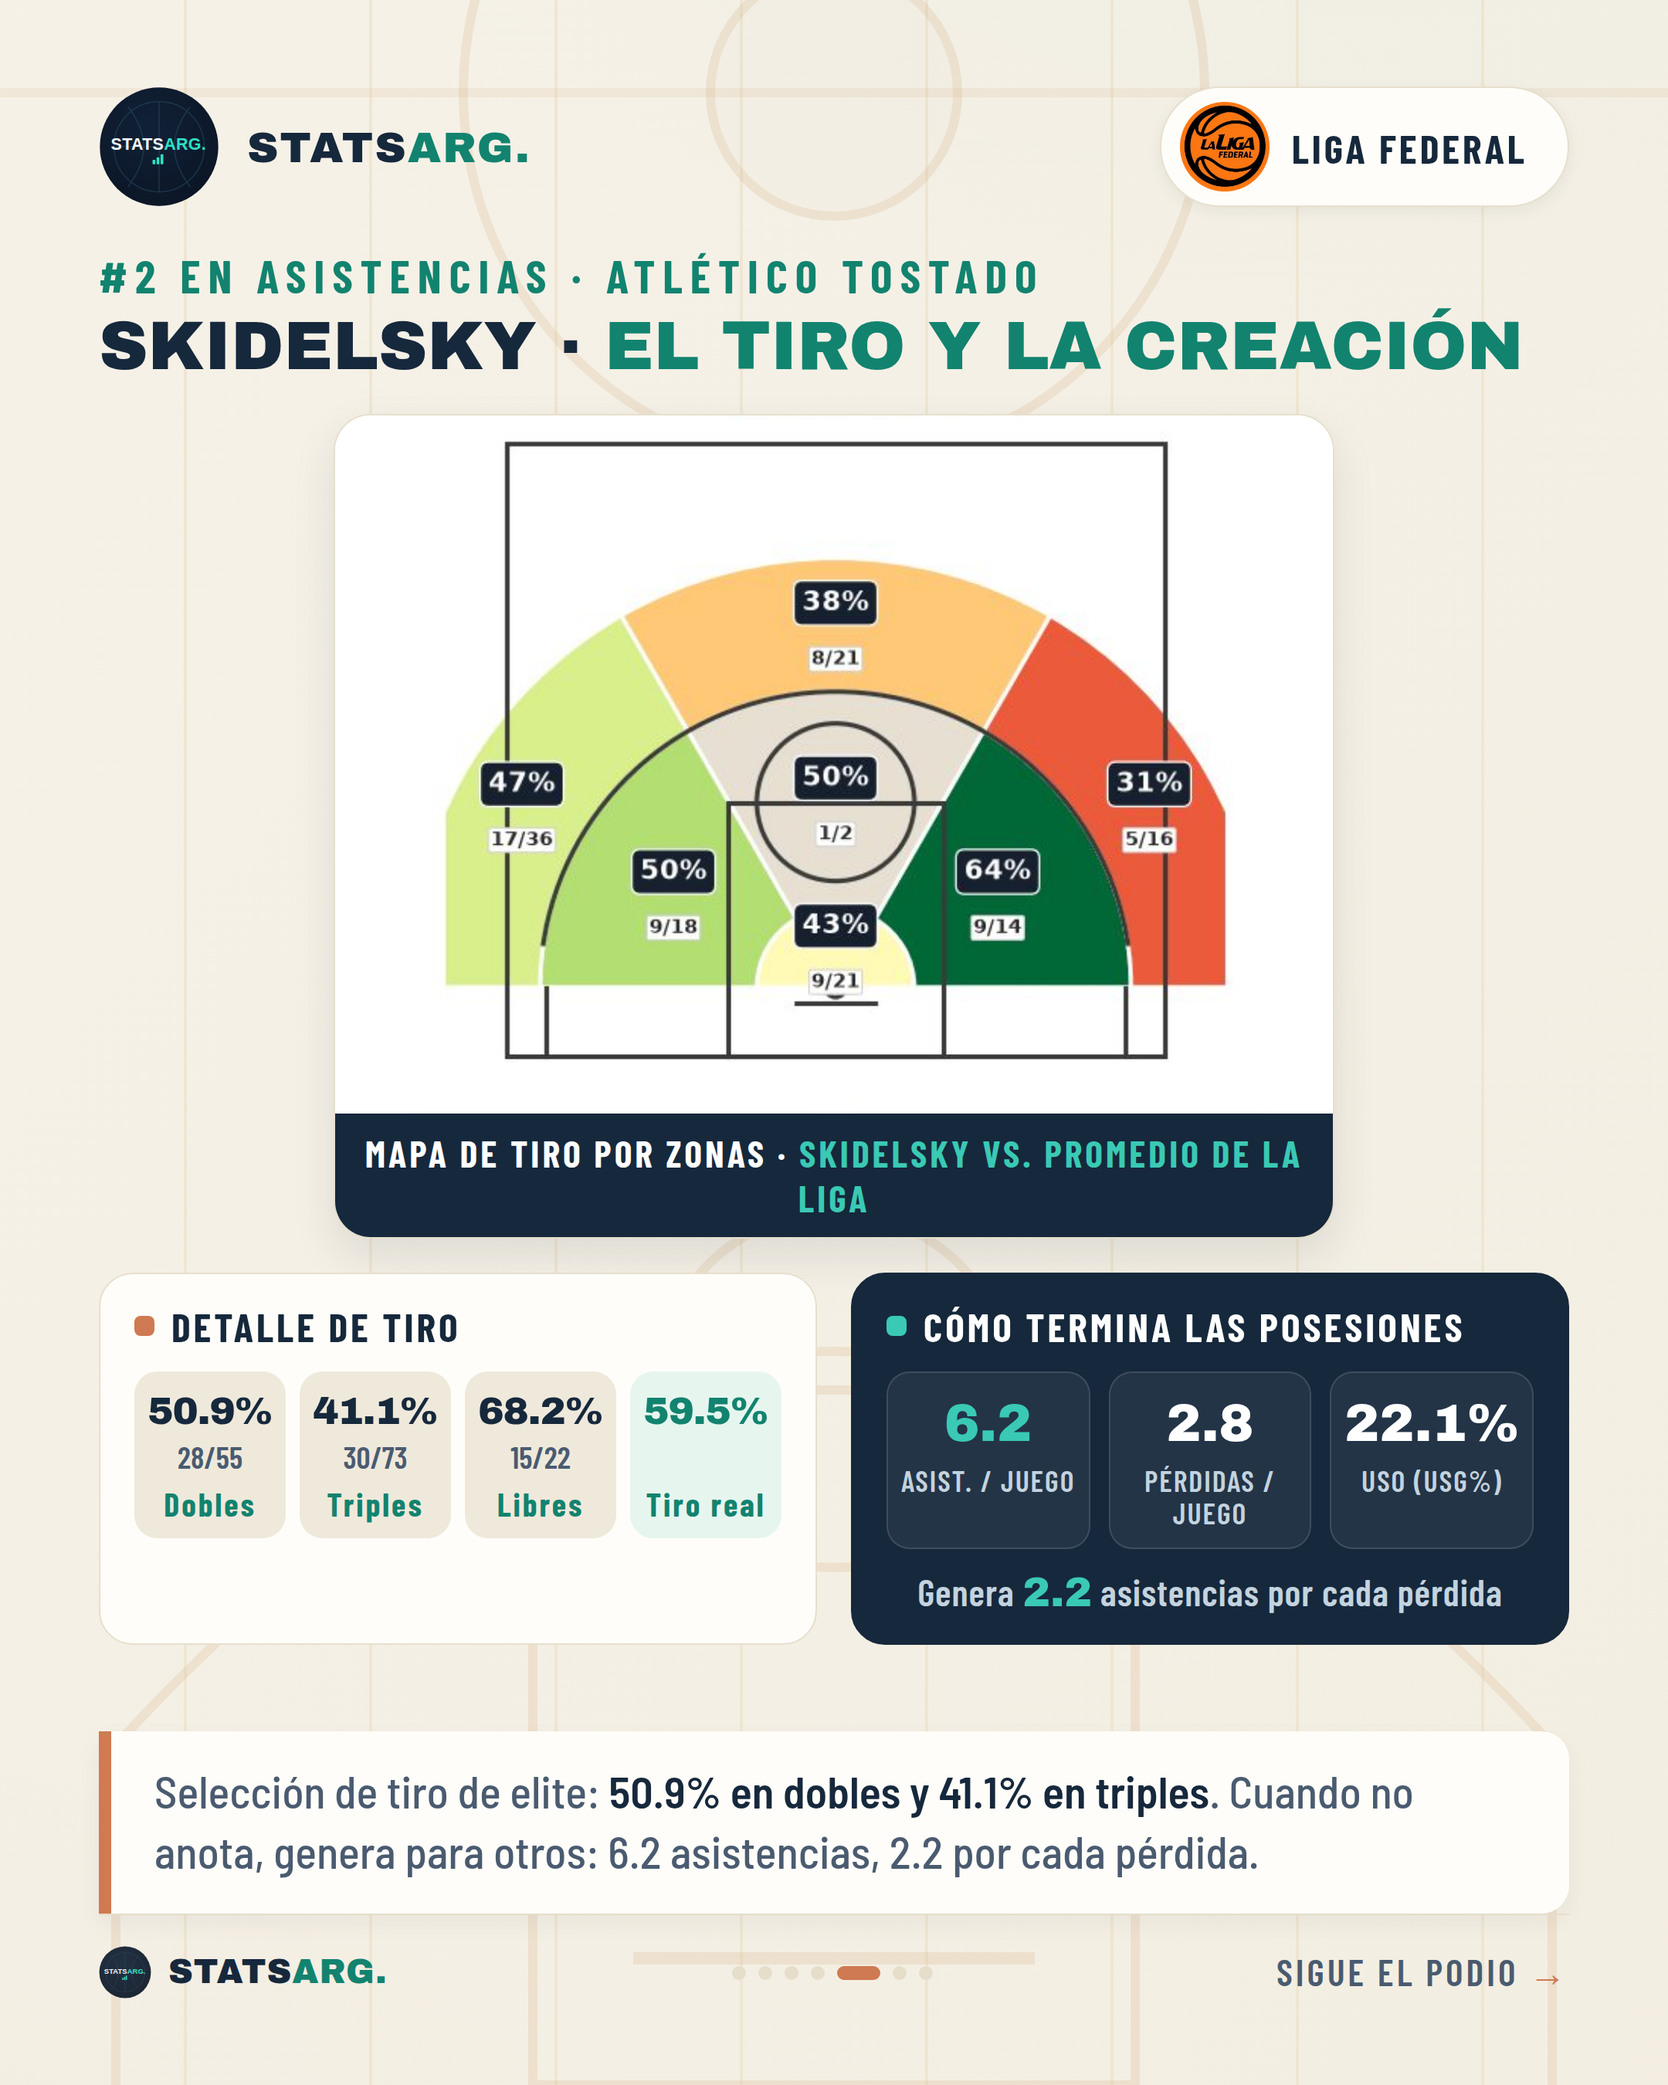
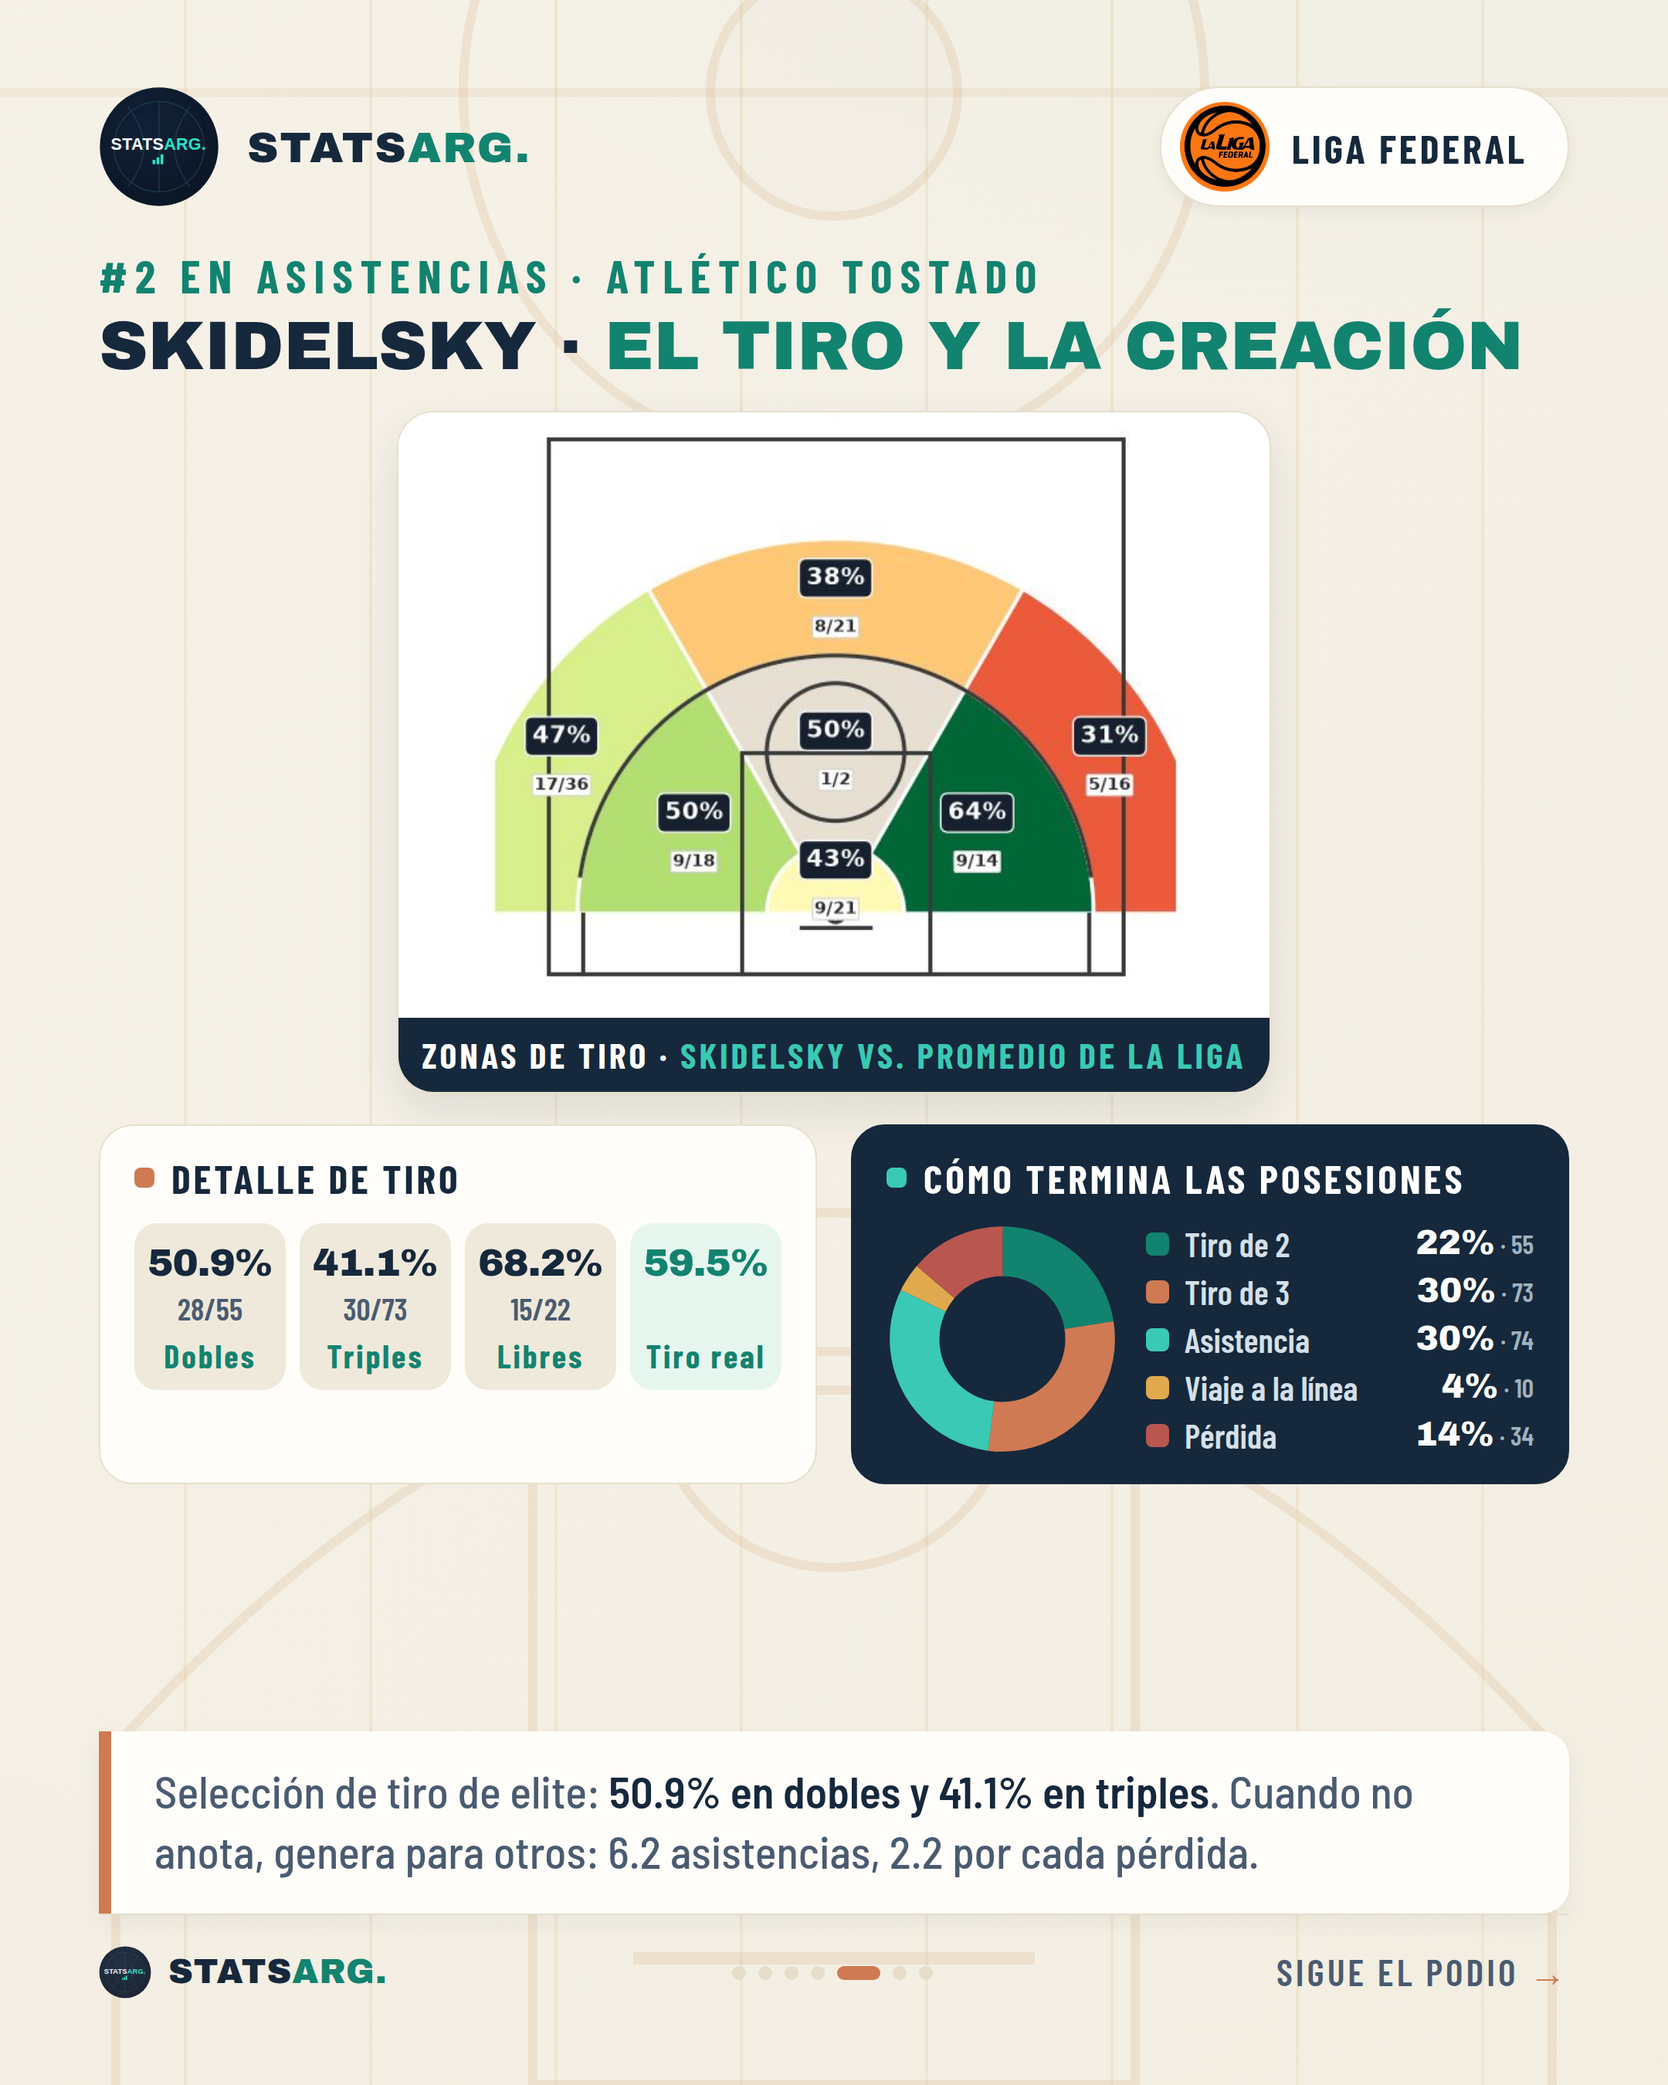
Carrusel asistidores: métricas avanzadas y gráfico de torta
- Portada: saca la nota de mínimo 10 juegos.
- Perfil: reemplaza el PER por un panel de métricas avanzadas (Four Factors
  + eficiencia): TS%, eFG%, USG%, TOV%, FT Rate y +/- por juego (verídico y
  comparable entre jugadores, en lugar del acumulado).
- Placa de tiro: reemplaza el bloque de posesiones por un gráfico de torta
  con el desglose de cómo termina (tiro de 2, tiro de 3, asistencia, viaje a
  la línea, pérdida) calculado desde el dataset.

Claude-Session: https://claude.ai/code/session_01GUo5CWbMptDgps5CVvVAgo

Changed region(s): [[0.062, 0.1867, 0.9616, 0.8089], [0.1551, 0.7467, 0.1861, 0.7778]]

diff --git a/social/asistidores-liga-federal/slides.html b/social/asistidores-liga-federal/slides.html
@@ -106,7 +106,7 @@ body{background:#555;font-family:'Barlow Semi',sans-serif;color:var(--navy)}
 .rankband .lbl .sub img{width:44px;height:44px;object-fit:contain}
 .rankband .lbl .sub .dot{width:8px;height:8px;border-radius:50%;background:var(--orange)}
 
-.profile-main{display:flex;gap:44px;margin-top:46px;align-items:stretch}
+.profile-main{display:flex;gap:44px;margin-top:46px;align-items:stretch;min-width:0}
 .photo-wrap{width:400px;flex:none;position:relative}
 .photo-wrap .ph{width:400px;height:476px;object-fit:cover;object-position:top;border-radius:28px;
   border:1px solid var(--line);background:#e8e2d2;box-shadow:0 12px 28px rgba(22,40,60,.12);display:block}
@@ -115,18 +115,33 @@ body{background:#555;font-family:'Barlow Semi',sans-serif;color:var(--navy)}
   font-family:'Barlow Condensed';font-weight:700;font-size:30px;letter-spacing:3px;text-transform:uppercase}
 .photo-wrap .tag span{color:var(--cyan)}
 
-.stats-col{flex:1;display:flex;flex-direction:column;gap:24px}
-.hero-tile{background:var(--navy);border-radius:26px;padding:26px 34px;display:flex;align-items:center;
+.stats-col{flex:1;min-width:0;display:flex;flex-direction:column;gap:20px}
+.hero-tile{background:var(--navy);border-radius:26px;padding:24px 34px;display:flex;align-items:center;
   justify-content:space-between;box-shadow:0 12px 26px rgba(22,40,60,.16)}
 .hero-tile .lbl{font-family:'Barlow Condensed';font-weight:600;font-size:32px;letter-spacing:4px;
   color:#c3d3df;text-transform:uppercase;line-height:1.15}
-.hero-tile .val{font-family:'Archivo Black';font-size:96px;color:var(--cyan);line-height:1}
-.grid{display:grid;grid-template-columns:repeat(3,1fr);gap:18px}
-.tile{background:var(--card);border:1px solid var(--line);border-radius:20px;padding:18px 10px 14px;text-align:center}
-.tile .v{font-family:'Archivo Black';font-size:44px;line-height:1}
-.tile .k{font-family:'Barlow Condensed';font-weight:600;font-size:23px;letter-spacing:2px;color:var(--navy-soft);
+.hero-tile .val{font-family:'Archivo Black';font-size:88px;color:var(--cyan);line-height:1}
+.grid{display:grid;grid-template-columns:repeat(4,1fr);gap:16px}
+.tile{background:var(--card);border:1px solid var(--line);border-radius:20px;padding:18px 8px 14px;text-align:center}
+.tile .v{font-family:'Archivo Black';font-size:42px;line-height:1}
+.tile .k{font-family:'Barlow Condensed';font-weight:600;font-size:22px;letter-spacing:1.5px;color:var(--navy-soft);
   text-transform:uppercase;margin-top:8px}
 .tile.hl .v{color:var(--teal-ink)}
+
+/* métricas avanzadas */
+.advpanel{background:var(--card);border:1px solid var(--line);border-radius:20px;padding:16px 18px 14px}
+.advpanel .at{font-family:'Barlow Condensed';font-weight:700;font-size:20px;letter-spacing:1.5px;
+  text-transform:uppercase;color:var(--navy-soft);margin-bottom:12px}
+.advrow{display:grid;grid-template-columns:repeat(3,1fr);row-gap:16px}
+.advrow .m{min-width:0;text-align:center;position:relative;padding:2px 4px}
+.advrow .m:not(:nth-child(3n))::after{content:'';position:absolute;right:0;top:2px;bottom:2px;width:1px;background:var(--line)}
+.advrow .m:nth-child(-n+3){padding-bottom:14px;border-bottom:1px solid var(--line)}
+.advrow .m:nth-child(n+4){padding-top:2px}
+.advrow .m .v{font-family:'Archivo Black';font-size:34px;line-height:1;letter-spacing:-.5px}
+.advrow .m .v.neg{color:#b8564f}
+.advrow .m .v.pos{color:var(--teal-ink)}
+.advrow .m .k{font-family:'Barlow Condensed';font-weight:600;font-size:20px;letter-spacing:1px;
+  color:var(--navy-soft);text-transform:uppercase;margin-top:6px}
 
 .profile .descbox{margin-top:58px;background:var(--card);border-left:8px solid var(--orange);
   border-radius:0 18px 18px 0;padding:24px 30px;box-shadow:0 6px 16px rgba(22,40,60,.05)}
@@ -137,17 +152,28 @@ body{background:#555;font-family:'Barlow Semi',sans-serif;color:var(--navy)}
   text-transform:uppercase;color:var(--teal-ink)}
 .shot-head h2{font-family:'Archivo Black';font-size:44px;text-transform:uppercase;line-height:1;margin-top:6px}
 
-.shot-main{display:flex;flex-direction:column;margin-top:22px;flex:1;min-height:0;gap:22px}
-.mapcard{width:648px;margin:0 auto;background:#fff;border:1px solid var(--line);border-radius:24px;overflow:hidden;
+.shot-main{display:flex;flex-direction:column;margin-top:20px;flex:1;min-height:0;gap:20px}
+.mapcard{width:566px;margin:0 auto;background:#fff;border:1px solid var(--line);border-radius:24px;overflow:hidden;
   box-shadow:0 12px 28px rgba(22,40,60,.10)}
-.mapcard .crop{width:648px;height:452px;overflow:hidden;position:relative}
-.mapcard img{width:648px;display:block;margin-top:-92px}
+.mapcard .crop{width:566px;height:392px;overflow:hidden;position:relative}
+.mapcard img{width:566px;display:block;margin-top:-79px}
 .mapcard .cap{background:var(--navy);color:#fff;text-align:center;
-  font-family:'Barlow Condensed';font-weight:700;font-size:24px;letter-spacing:2px;text-transform:uppercase;padding:11px 6px}
+  font-family:'Barlow Condensed';font-weight:700;font-size:23px;letter-spacing:2px;text-transform:uppercase;padding:10px 6px}
 .mapcard .cap span{color:var(--cyan)}
 
 .panels-row{display:flex;gap:22px;align-items:stretch}
 .panel{flex:1;min-width:0;background:var(--card);border:1px solid var(--line);border-radius:22px;padding:18px 22px}
+/* donut cómo termina las posesiones */
+.donut-wrap{display:flex;align-items:center;gap:18px;margin-top:14px}
+.donut{width:150px;height:150px;flex:none}
+.donut .seg{transition:none}
+.legend{flex:1;min-width:0;display:flex;flex-direction:column;gap:9px}
+.legend .li{display:flex;align-items:center;gap:10px;font-family:'Barlow Condensed';font-weight:600;
+  font-size:22px;color:#d4e0e9;line-height:1}
+.legend .li i{width:15px;height:15px;border-radius:4px;flex:none}
+.legend .li .lbl{flex:1;min-width:0;white-space:nowrap;overflow:hidden;text-overflow:ellipsis}
+.legend .li .pv{font-family:'Archivo Black';font-size:22px;color:#fff}
+.legend .li .pv small{font-family:'Barlow Condensed';font-weight:600;color:#9fb2c0;font-size:17px}
 .panel h3{font-family:'Barlow Condensed';font-weight:700;font-size:26px;letter-spacing:2px;
   text-transform:uppercase;color:var(--navy);display:flex;align-items:center;gap:11px}
 .panel h3::before{content:'';width:13px;height:13px;border-radius:4px;background:var(--orange)}
@@ -225,6 +251,34 @@ function foot(active,note){
     <div class="fnote">${note}</div>
   </div>`;
 }
+
+// gráfico de torta (dona) de cómo termina las posesiones
+function donut(t){
+  const segs=[
+    {k:'Tiro de 2', v:t.fg2, c:'#12836f'},
+    {k:'Tiro de 3', v:t.fg3, c:'#cf7a52'},
+    {k:'Asistencia', v:t.ast, c:'#3ac9b4'},
+    {k:'Viaje a la línea', v:t.ftl, c:'#e0a94e'},
+    {k:'Pérdida', v:t.tov, c:'#b8564f'}
+  ];
+  const total=segs.reduce((s,x)=>s+x.v,0);
+  let off=25, ring='', leg='';
+  segs.forEach(s=>{
+    const pct=s.v/total*100;
+    ring+=`<circle class="seg" r="15.915" cx="21" cy="21" fill="none" stroke="${s.c}" stroke-width="9"
+      stroke-dasharray="${pct.toFixed(2)} ${(100-pct).toFixed(2)}" stroke-dashoffset="${off.toFixed(2)}"></circle>`;
+    off=(off-pct+100)%100;
+    leg+=`<div class="li"><i style="background:${s.c}"></i><span class="lbl">${s.k}</span>
+      <span class="pv">${Math.round(pct)}%<small> · ${s.v}</small></span></div>`;
+  });
+  return `<div class="donut-wrap">
+    <svg class="donut" viewBox="0 0 42 42">
+      <circle r="15.915" cx="21" cy="21" fill="none" stroke="rgba(255,255,255,.08)" stroke-width="9"></circle>
+      ${ring}
+    </svg>
+    <div class="legend">${leg}</div>
+  </div>`;
+}
 </script>
 
 <!-- ================= SLIDE 1 · PORTADA ================= -->
@@ -286,8 +340,9 @@ const PLAYERS = [
     logo:'../../assets/logos/liga-federal__ferro-gral-pico.png',
     shot:'../../assets/shots/liga-federal__ferro-gral-pico__menna-juan-segundo.jpg',
     ast:'6.6', pts:'19.9', reb:'6.0', rob:'1.2', per:'2.5', min:'35.6', pj:'11',
-    eff:'31.6',
     usg:'27.8%', ts:'51.4%',
+    adv:{ts:'51.4%', efg:'48.8%', usg:'27.8%', tov:'11.4%', ftr:'15.7%', pm:'+11.3'},
+    term:{fg2:61, fg3:130, ast:73, ftl:20, tov:28},
     fg2:{p:'44.3%',f:'27/61'}, fg3:{p:'34.6%',f:'45/130'}, ft:{p:'66.7%',f:'30/45'},
     ratio:'2.6',
     desc1:'Motor total de Ferro: al liderazgo en asistencias le suma <b>19.9 puntos y 6 rebotes</b> por juego, jugando casi 36 minutos por noche como conductor absoluto.',
@@ -301,8 +356,9 @@ const PLAYERS = [
     logo:'../../assets/logos/liga-federal__atl-tostado.png',
     shot:'../../assets/shots/liga-federal__atl-tostado__skidelsky-ernesto-dario.jpg',
     ast:'6.2', pts:'13.4', reb:'3.7', rob:'1.7', per:'2.8', min:'36.0', pj:'12',
-    eff:'24.8',
     usg:'22.1%', ts:'59.5%',
+    adv:{ts:'59.5%', efg:'58.8%', usg:'22.1%', tov:'19.8%', ftr:'11.7%', pm:'-1.8'},
+    term:{fg2:55, fg3:73, ast:74, ftl:10, tov:34},
     fg2:{p:'50.9%',f:'28/55'}, fg3:{p:'41.1%',f:'30/73'}, ft:{p:'68.2%',f:'15/22'},
     ratio:'2.2',
     desc1:'El base de Tostado reparte <b>6.2 asistencias</b> y roba 1.7 balones por juego. Es el más eficiente del podio: <b>59.5% de tiro real</b> con uso moderado del balón.',
@@ -316,8 +372,9 @@ const PLAYERS = [
     logo:'../../assets/logos/liga-federal__almagro-esperanza.png',
     shot:'../../assets/shots/liga-federal__almagro-esperanza__durigon-enzo.jpg',
     ast:'5.6', pts:'12.9', reb:'5.6', rob:'1.2', per:'1.9', min:'36.1', pj:'17',
-    eff:'23.5',
     usg:'23.1%', ts:'43.7%',
+    adv:{ts:'43.7%', efg:'38.0%', usg:'23.1%', tov:'11.8%', ftr:'24.0%', pm:'+3.6'},
+    term:{fg2:96, fg3:121, ast:95, ftl:30, tov:32},
     fg2:{p:'44.8%',f:'43/96'}, fg3:{p:'22.3%',f:'27/121'}, ft:{p:'76.5%',f:'52/68'},
     ratio:'2.9',
     desc1:'Con solo <b>22 años</b> maneja a Almagro 36 minutos por noche: 5.6 asistencias y apenas 1.9 pérdidas, <b>el mejor cuidado de balón del podio</b>.',
@@ -360,8 +417,17 @@ return `
           <div class="tile"><div class="v">${p.reb}</div><div class="k">Rebotes</div></div>
           <div class="tile"><div class="v">${p.rob}</div><div class="k">Robos</div></div>
           <div class="tile"><div class="v">${p.per}</div><div class="k">Pérdidas</div></div>
-          <div class="tile"><div class="v">${p.usg}</div><div class="k">Uso (USG)</div></div>
-          <div class="tile hl"><div class="v">${p.eff}</div><div class="k">Índice PER</div></div>
+        </div>
+        <div class="advpanel">
+          <div class="at">Métricas avanzadas · Four Factors + eficiencia</div>
+          <div class="advrow">
+            <div class="m"><div class="v hl">${p.adv.ts}</div><div class="k">TS%</div></div>
+            <div class="m"><div class="v">${p.adv.efg}</div><div class="k">eFG%</div></div>
+            <div class="m"><div class="v">${p.adv.usg}</div><div class="k">USG%</div></div>
+            <div class="m"><div class="v">${p.adv.tov}</div><div class="k">TOV%</div></div>
+            <div class="m"><div class="v">${p.adv.ftr}</div><div class="k">FT Rate</div></div>
+            <div class="m"><div class="v ${p.adv.pm.charAt(0)==='-'?'neg':'pos'}">${p.adv.pm}</div><div class="k">+/− PJ</div></div>
+          </div>
         </div>
       </div>
     </div>
@@ -392,7 +458,7 @@ return `
     <div class="shot-main">
       <div class="mapcard">
         <div class="crop"><img src="${p.shot}"></div>
-        <div class="cap">Mapa de tiro por zonas · <span>${p.corto} vs. promedio de la liga</span></div>
+        <div class="cap">Zonas de tiro · <span>${p.corto} vs. promedio de la liga</span></div>
       </div>
       <div class="panels-row">
         <div class="panel">
@@ -406,12 +472,7 @@ return `
         </div>
         <div class="panel dark">
           <h3>Cómo termina las posesiones</h3>
-          <div class="possrow">
-            <div class="poss"><div class="v cy">${p.ast}</div><div class="k">Asist. / juego</div></div>
-            <div class="poss"><div class="v">${p.per}</div><div class="k">Pérdidas / juego</div></div>
-            <div class="poss"><div class="v">${p.usg}</div><div class="k">Uso (USG%)</div></div>
-          </div>
-          <div class="ratio-note">Genera <b>${p.ratio}</b> asistencias por cada pérdida</div>
+          ${donut(p.term)}
         </div>
       </div>
     </div>
@@ -426,7 +487,7 @@ return `
 let html='';
 PLAYERS.forEach((p,i)=>{ html+=profileSlide(p,i)+shotSlide(p,i); });
 document.getElementById('players-mount').outerHTML=html;
-document.getElementById('cover-foot').outerHTML=foot(0,'Mínimo 10 juegos · Deslizá <b>&#8594;</b>');
+document.getElementById('cover-foot').outerHTML=foot(0,'Deslizá <b>&#8594;</b>');
 document.querySelectorAll('.court-holder').forEach(el=>{ el.outerHTML=COURT; });
 </script>
 </body>
